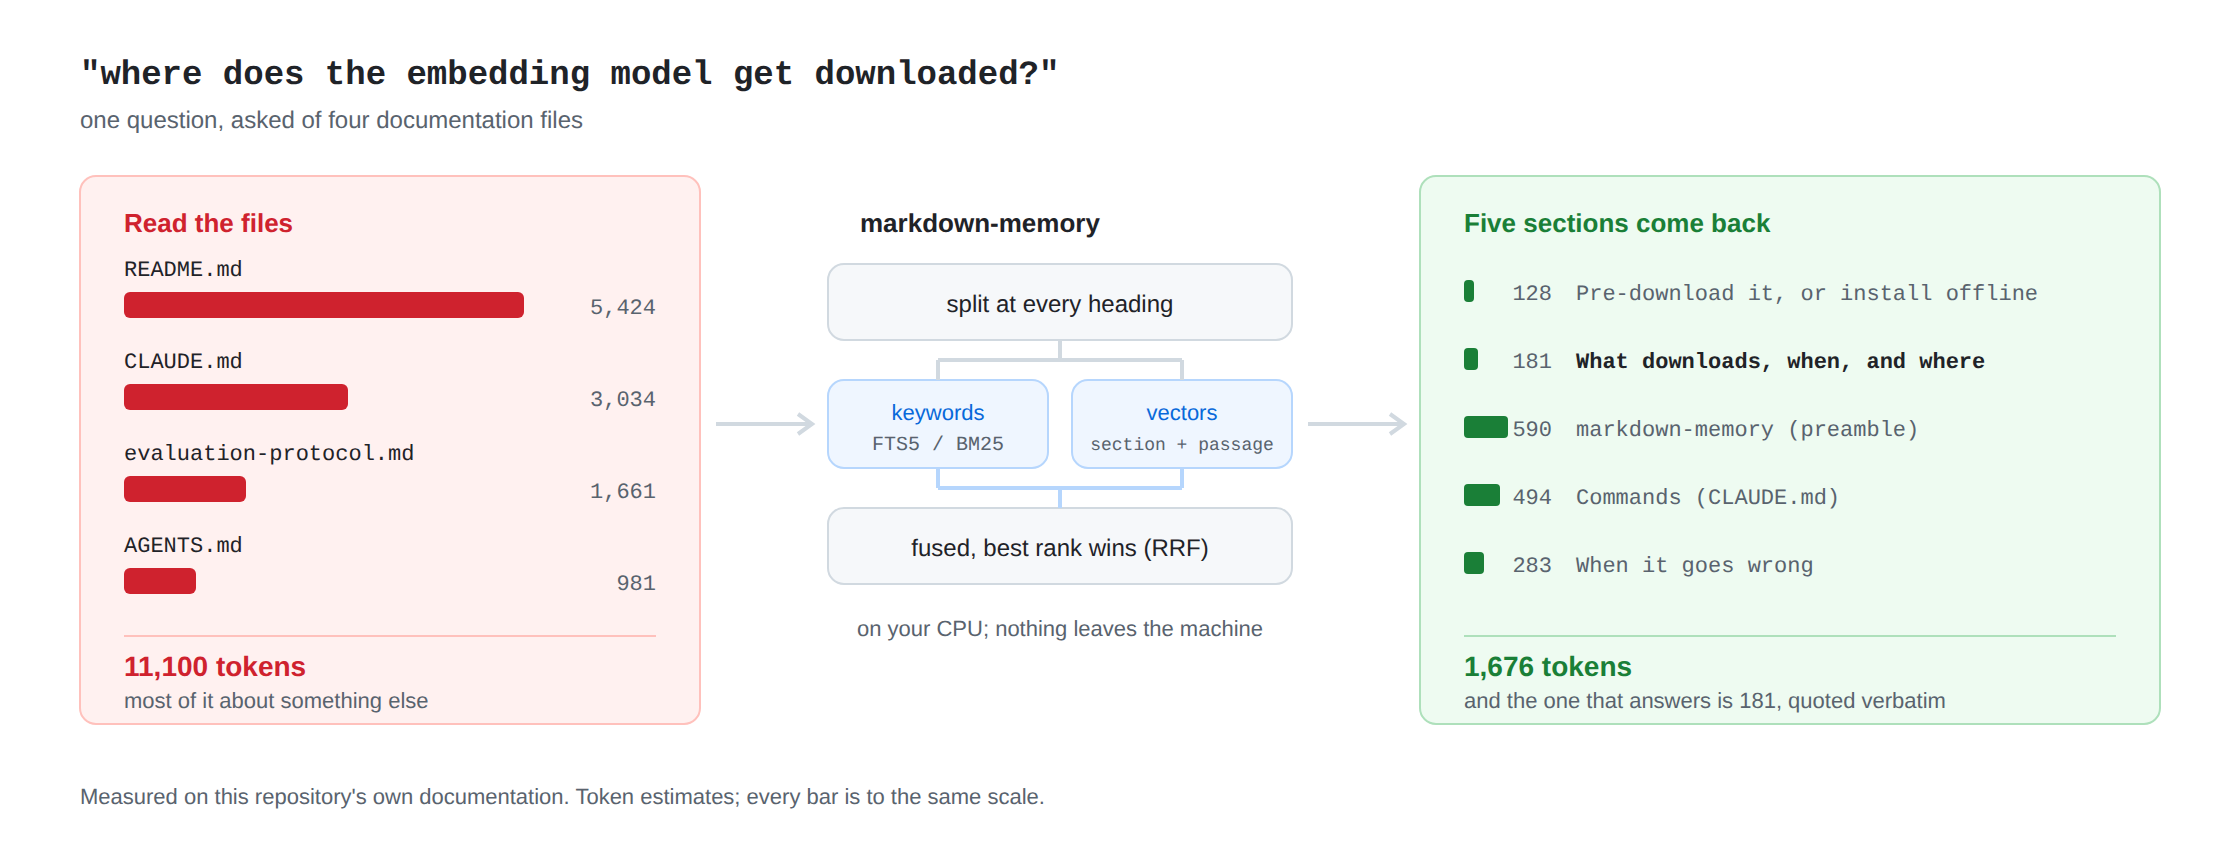
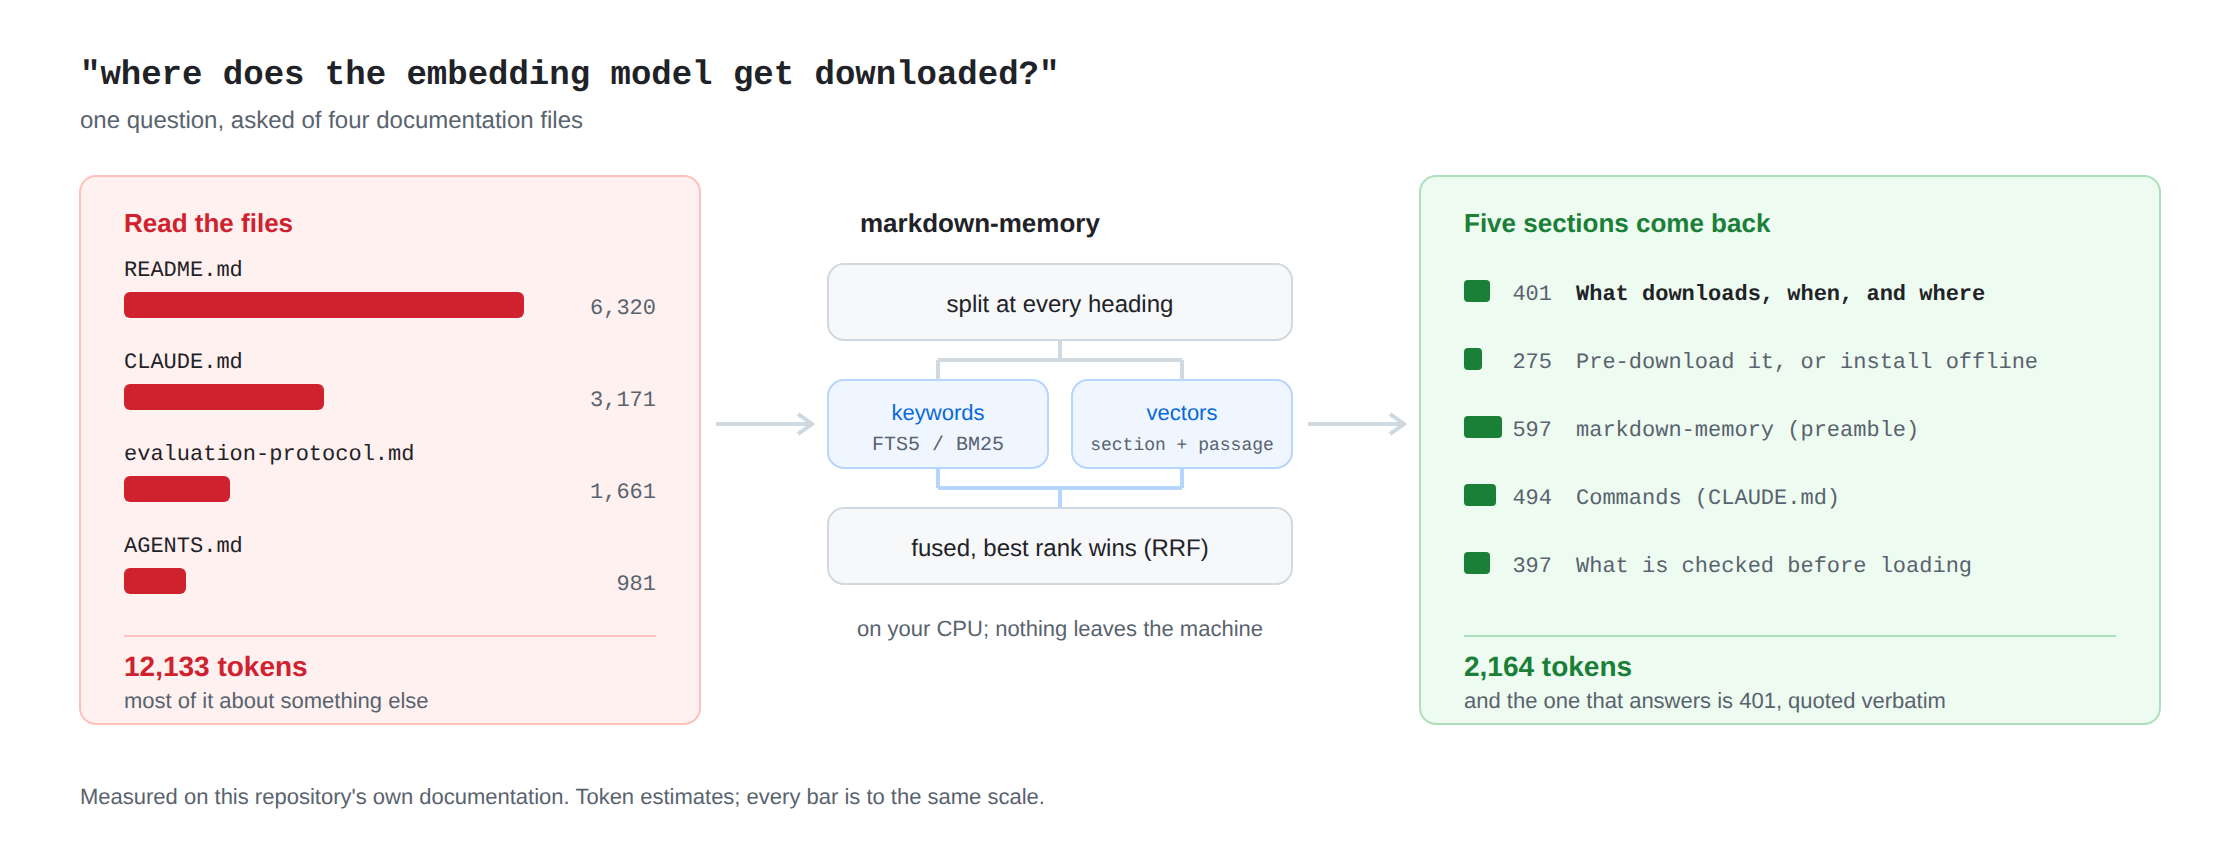
Document the model cache, the CPU and the memory, with measured numbers
README: the versioned cache path, what the `.verified` stamp does and does not
guarantee, how to install offline into it, the locking and its NFS/SMB and
side-by-side-versions boundaries, that old revisions are reported rather than
deleted, and that bge-small's weights can move under an unchanged model name.
The derived gather-first graph gets its own paragraph, including that it is a
modification of Gemma and that the Gemma Terms follow anyone who shares it.

Presets table: peak RAM ~1.6 GB -> ~0.7 GB and indexing ~7 vectors/s for the
default preset, both from the live test and the eval corpus on this machine.
MARKDOWN_MEMORY_THREADS gains what it is actually for now that spinning is off,
and what it is the only lever for on bge-small.

CLAUDE.md: graph_patch.py in the layout table, the cache machinery named in the
indexer's row, and the gather-before-dequantize ordering in the intro.

The README's worked example and the diagram beside it are re-measured, since
editing the README changes the very files they count. The mutation that falsifies
a printed token count is repointed at the new figure.

diff --git a/scripts/make_diagram.py b/scripts/make_diagram.py
@@ -67,17 +67,17 @@ W, H = 1120, 430
 # tests/test_agent_docs.py re-derives all of them from the real files, so editing the
 # documentation without redrawing the picture is a test failure rather than a quiet lie.
 LEFT_FILES = [
-    ("README.md", 5424),
-    ("CLAUDE.md", 3034),
+    ("README.md", 6320),
+    ("CLAUDE.md", 3171),
     ("evaluation-protocol.md", 1661),
     ("AGENTS.md", 981),
 ]
 RIGHT_HITS = [
-    (128, "Pre-download it, or install offline", False),
-    (181, "What downloads, when, and where", True),
-    (590, "markdown-memory  (preamble)", False),
+    (401, "What downloads, when, and where", True),
+    (275, "Pre-download it, or install offline", False),
+    (597, "markdown-memory  (preamble)", False),
     (494, "Commands  (CLAUDE.md)", False),
-    (283, "When it goes wrong", False),
+    (397, "What is checked before loading", False),
 ]
 MAX_TOKENS = max(tokens for _, tokens in LEFT_FILES)
 # Every figure the drawing prints is derived from the two lists above - the totals, the

diff --git a/scripts/mutation_check.py b/scripts/mutation_check.py
@@ -317,7 +317,7 @@ MUTATIONS = (
         name="diagram: print a token count the files stopped matching",
         module="make_diagram.py",
         area="scripts",
-        old='    ("README.md", 5424),',
+        old='    ("README.md", 6320),',
         new='    ("README.md", 5062),',
         tests="test_every_file_on_the_diagram_still_costs_what_it_says "
         "or test_the_totals_the_readme_prints_are_the_sum_of_those_files",

diff --git a/README.md b/README.md
@@ -12,27 +12,27 @@ back as a few sections, each addressable by its breadcrumb and quoted verbatim.
   <source media="(prefers-color-scheme: dark)" srcset="docs/assets/how-it-works-dark.svg">
   <source srcset="docs/assets/how-it-works-light.svg">
   <img src="docs/assets/how-it-works-light.png" width="100%"
-       alt="One question asked of four documentation files. Reading them whole costs 11,100
+       alt="One question asked of four documentation files. Reading them whole costs 12,133
             tokens. markdown-memory splits them at every heading, ranks by keywords and by
-            vectors, fuses the two, and returns five sections totalling 1,676 tokens - the
-            one that answers is 181.">
+            vectors, fuses the two, and returns five sections totalling 2,164 tokens - the
+            one that answers is 401.">
 </picture>
 
 Measured on this repository's own documentation - `README.md`, `CLAUDE.md`, `AGENTS.md` and
-`docs/evaluation-protocol.md`, 11,100 tokens in all:
+`docs/evaluation-protocol.md`, 12,133 tokens in all:
 
 ```
 search_docs("where does the embedding model get downloaded")
 
-  128 tok  README.md  markdown-memory > The embedding model > Pre-download it, or install offline
-  181 tok  README.md  markdown-memory > The embedding model > What downloads, when, and where
-  590 tok  README.md  markdown-memory
+  401 tok  README.md  markdown-memory > The embedding model > What downloads, when, and where
+  275 tok  README.md  markdown-memory > The embedding model > Pre-download it, or install offline
+  597 tok  README.md  markdown-memory
   494 tok  CLAUDE.md  markdown-memory > Commands
-  283 tok  README.md  markdown-memory > The embedding model > When it goes wrong
+  397 tok  README.md  markdown-memory > The embedding model > What is checked before the model is loaded
 ```
 
-**1,676 tokens instead of 11,100**, and the section that actually answers is 181 - a
-sixtieth of what reading the files costs. Every hit carries its full text, so a good
+**2,164 tokens instead of 12,133**, and the section that actually answers is 401 - a
+thirtieth of what reading the files costs. Every hit carries its full text, so a good
 answer usually needs no follow-up call at all.
 
 It is a local [Model Context Protocol](https://modelcontextprotocol.io) server - MCP is the
@@ -133,13 +133,53 @@ at a pinned revision: the quantized ONNX graph, its external weights, and the to
 About **330 MB**, once per machine, into:
 
 ```
-$XDG_CACHE_HOME/markdown-memory/models/embeddinggemma-300m-onnx/     # ~/.cache/... by default
+$XDG_CACHE_HOME/markdown-memory/models/embeddinggemma-300m-onnx-5090578d9565/   # ~/.cache/... by default
 ```
+
+The revision is part of the folder name, so moving the pin fetches the new weights instead
+of serving the old ones under a name that claims to be the new ones. A folder from an older
+version of this package (without the suffix) is *moved* into place on the first start, not
+downloaded again.
 
 The cache is shared by every project on purpose - the weights are identical and read-only,
 so copying them per project would be pure waste. Point `MARKDOWN_MEMORY_MODEL_CACHE`
-somewhere else to move it. The download is skipped entirely when all three files are already
-there.
+somewhere else to move it.
+
+Beside the three downloaded files, the server writes
+`onnx/model_quantized.gather_first.onnx`: the same graph with the vocabulary table gathered
+*before* it is dequantized, which is worth about 1 GB of memory per query. It is derived
+from the verified download on your machine, never fetched, and regenerated whenever it is
+missing. Vectors are bit-identical to the published graph's, so an existing index stays
+valid. It is a modification of Gemma and is covered by the
+[Gemma Terms of Use](https://ai.google.dev/gemma/terms): this repository distributes nothing
+modified, but those terms apply to anyone who shares or hosts that derived file.
+
+### What is checked before the model is loaded
+
+Every file's size and sha256 is pinned at the pinned revision. After a full check, a
+`.verified` stamp records each file's size, mtime, ctime, inode and device, so an ordinary
+start is a handful of `stat` calls rather than most of a second of hashing. Anything that
+differs sends the files back to be hashed against the pins, and a file that does not match
+is re-fetched - just that file.
+
+**Guaranteed:** any change to a model file's contents or metadata since it was verified is
+caught. `cp -p`, `tar x` and `rsync --inplace` can overwrite a file and restore its mtime,
+which is why ctime is in the stamp - nothing in user space can set that back. **Not
+guaranteed:** silent disk bit-rot, with no write at all.
+
+A failure to *load* verified files is not treated as damage: it means onnxruntime,
+permissions or memory, so the error is raised as it stands and nothing is downloaded.
+
+Verification and loading hold a shared `flock`; downloading, repairing and migrating hold it
+exclusively, so several servers starting at once download once between them. A model cache
+on **NFS or SMB shared between machines is not supported** - `flock` can be local-only
+there. Nor is running an old and a new version of this package side by side during the
+one-time folder migration: an older checkout that starts at that exact instant fails once,
+then re-downloads.
+
+Old revisions are never deleted. After a successful start, one log line on stderr names any
+other `embeddinggemma-300m-onnx*` folders and what they cost, and removing them is yours to
+do.
 
 ### Pre-download it, or install offline
 
@@ -153,8 +193,17 @@ create_embedder(DEFAULT_EMBEDDER, cache_dir=ServerConfig.from_env().model_cache_
 "
 ```
 
-For a machine with no network, copy that cache directory from one that has it. The three
-files are all that is needed, and their presence is the whole check.
+For a machine with no network, copy the three files into
+`$XDG_CACHE_HOME/markdown-memory/models/embeddinggemma-300m-onnx-5090578d9565/`, keeping
+`onnx/model_quantized.onnx`, `onnx/model_quantized.onnx_data` and `tokenizer.json` where
+they are. The first start hashes them once, writes the `.verified` stamp, derives the
+gather-first graph, and never touches the network.
+
+`bge-small` is downloaded by `fastembed`, which pins no revision: if that cache is deleted,
+it can come back with different weights under the same model name. The snapshot the index
+was built from is recorded, and a later run that finds different weights says so in its
+report and in the log. Nothing is discarded automatically - re-indexing from scratch is
+yours to decide.
 
 ### Presets
 
@@ -162,7 +211,7 @@ Two presets, chosen with `MARKDOWN_MEMORY_EMBEDDER`:
 
 | Preset | Dimensions | Download | Peak RAM | Indexing | Held-out Top-1 / Top-3 / Top-5 |
 | --- | --- | --- | --- | --- | --- |
-| `embeddinggemma` (default) | 768 | ~330 MB | ~1.6 GB | 2.4-3.8 vectors/s | 85% / 97% / 97% |
+| `embeddinggemma` (default) | 768 | ~330 MB | ~0.7 GB | ~7 vectors/s | 85% / 97% / 97% |
 | `bge-small` | 384 | ~65 MB | ~1.1 GB | ~12 vectors/s | 68% / 82% / 88% |
 
 Accuracy is the frozen baseline in `scripts/eval_data/baseline.json`, recorded by
@@ -239,6 +288,13 @@ or just the title); an ambiguous request lists the exact candidates.
 | `MARKDOWN_MEMORY_LOG_LEVEL` | `--log-level` | `INFO` |
 | `MARKDOWN_MEMORY_EMBEDDER` | `--embedder` | `embeddinggemma` (or `bge-small`) |
 | `MARKDOWN_MEMORY_THREADS` | - | unset: onnxruntime picks. A positive integer caps the threads one embedding pass may use |
+
+The default preset does not spin-wait between operators, which is what makes a query cost ~0.6 s of
+CPU instead of ~5.5 s and leaves the process idle at 0 while nothing is being asked of it; the
+thread *count* is left to onnxruntime, and `MARKDOWN_MEMORY_THREADS` is there for a machine that
+disagrees with its choice. `bge-small` runs through `fastembed`, which exposes no such switch, so
+for that preset the count is the only lever: `MARKDOWN_MEMORY_THREADS=4` took one query from 718 ms
+of CPU to 95 ms.
 
 `MARKDOWN_MEMORY_EXCLUDE` takes glob patterns separated by commas (only commas - a colon
 would split a pattern that contains one). A pattern with no `/` matches that name at any

diff --git a/CLAUDE.md b/CLAUDE.md
@@ -7,7 +7,10 @@ heading-delimited sections, and stored in a single SQLite file with three indexe
 embedder truncates at 512 tokens), and `sqlite-vec` passage vectors (one per
 paragraph, list item, table row, code block). Embeddings are local ONNX on CPU:
 EmbeddingGemma-300m by default (768 dims), `bge-small-en-v1.5` via fastembed as the light
-preset (384 dims). Search fuses keyword and vector rankings with Reciprocal Rank Fusion.
+preset (384 dims). Gemma's graph is rewritten on each machine so the int8 vocabulary table
+is gathered *before* it is dequantized - bit-identical vectors, and ~0.7 GB resident rather
+than ~1.6 GB, because the published order materialises all 262144x768 rows in float32 on
+every run. Search fuses keyword and vector rankings with Reciprocal Rank Fusion.
 Built on the MCP Python SDK **2.x**, where `FastMCP` is named `MCPServer`.
 
 ## Commands
@@ -48,7 +51,8 @@ The first run downloads the embedding model (~330 MB) into
 | `src/markdown_memory/exceptions.py` | `MarkdownMemoryError` hierarchy (`ConfigurationError`, `DatabaseError`, `ASTParseError`, `IndexingError` > `EmbeddingError` > `ModelLoadError`, `IndexBusyError`, `SearchError`, `DocumentNotFoundError`, `SectionNotFoundError`) |
 | `src/markdown_memory/parser.py` | AST sectioniser: heading stack, preamble, front matter, unclosed-fence repair, oversized-section parts, `extract_units` (+ `_windows`: a passage over `MAX_UNIT_CHARS` is split, never truncated) |
 | `src/markdown_memory/db.py` | `Database`: per-thread connections, WAL, migrations (schema v4), repository methods, `integrity_problems()` |
-| `src/markdown_memory/indexer.py` | `Embedder` protocol, `EmbeddingGemmaEmbedder`, `FastEmbedEmbedder`, `create_embedder`, incremental `Indexer` |
+| `src/markdown_memory/indexer.py` | `Embedder` protocol, `EmbeddingGemmaEmbedder`, `FastEmbedEmbedder`, `create_embedder`, the versioned/verified model cache (`gemma_model_dir`, `GEMMA_MANIFEST`, `.verified` stamp, `flock`), incremental `Indexer` |
+| `src/markdown_memory/graph_patch.py` | `gather_before_dequantize`: rewrites two nodes of the pinned ONNX graph on the protobuf wire format, or refuses (`None`) and leaves it alone |
 | `src/markdown_memory/search.py` | `HybridSearcher`: FTS5 query building, IDF keyword gate, passage max-sim, RRF |
 | `src/markdown_memory/server.py` | `ServerConfig`, `resolve_config` (one precedence for every entry point), `MarkdownMemoryService`, heading-path resolution, outline, MCP tool wiring, `main()` |
 | `tests/` | `test_<area>.py` covers the module of that name; `test_<area>_regressions.py` pins every bug review found there. `fakes.py` holds `FakeEmbedder` (offline, deterministic), `helpers.py` the shared builders |
